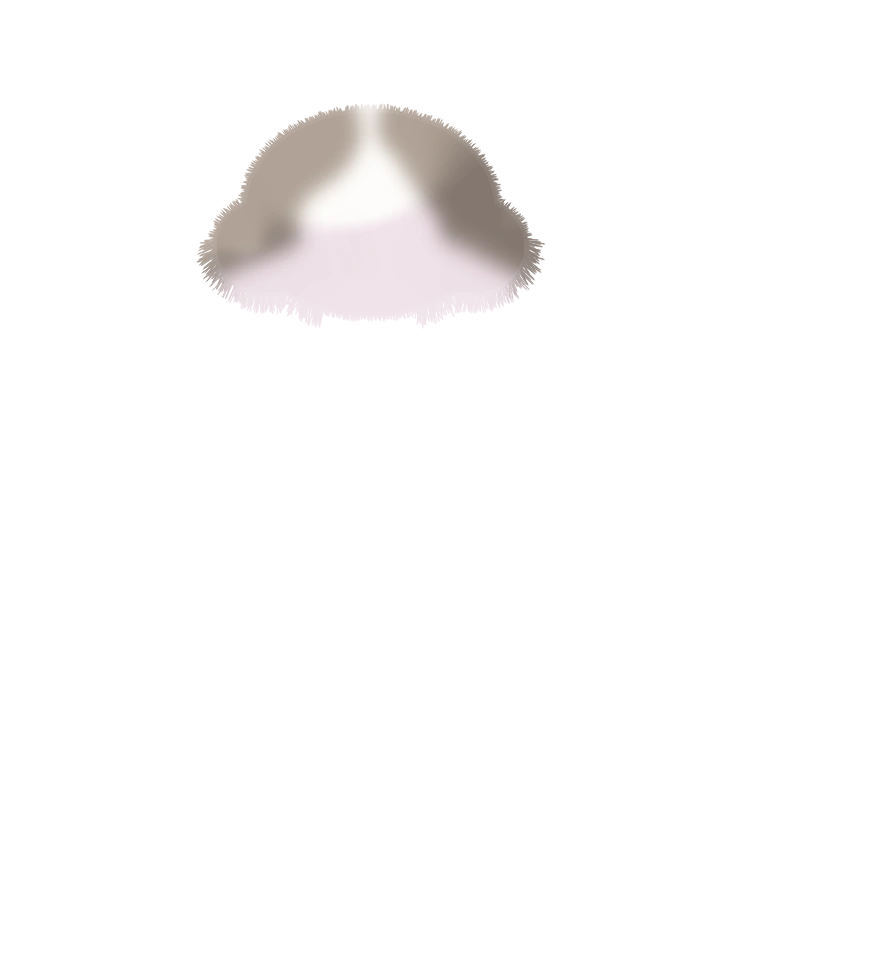
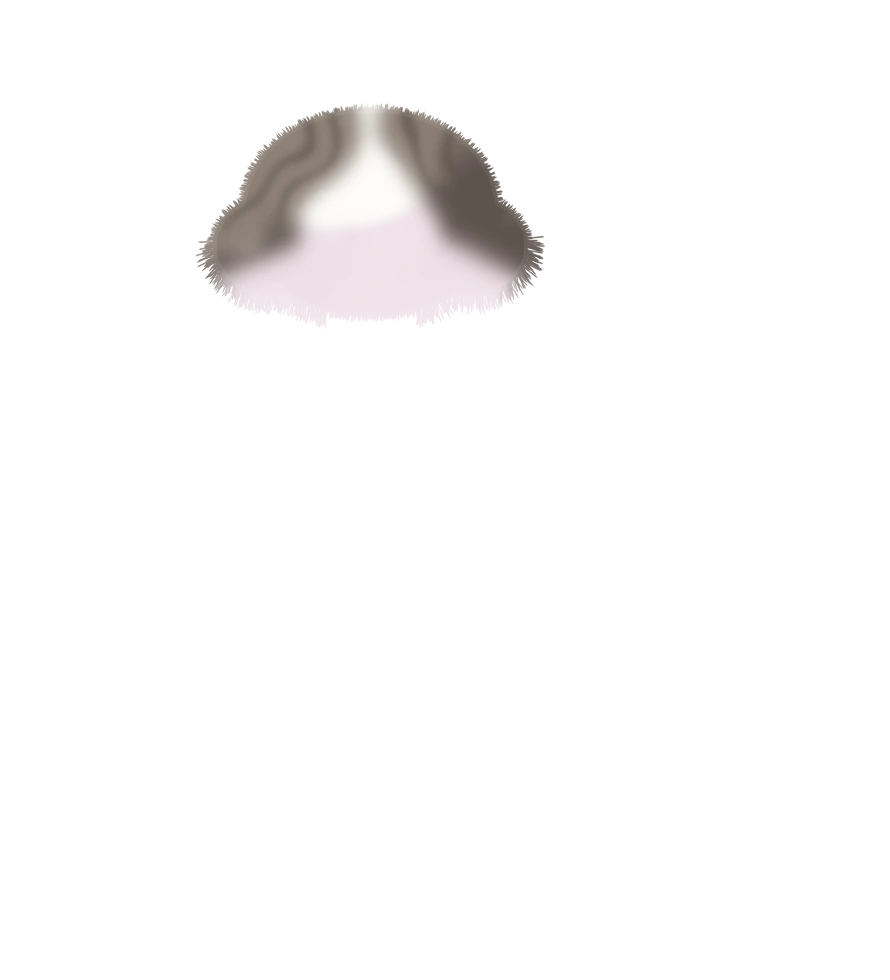
Playground: Ana part-connection pass (eyelids take the head's colours via mesh mapping, clearer legs, darker warm grey with forehead streaks)
Claude-Session: https://claude.ai/code/session_01W4x6f7KtFbhsBZfqVxHVQA

Changed region(s): [[0.2124, 0.0918, 0.6067, 0.3061]]

diff --git a/william/ana/make_ana.py b/william/ana/make_ana.py
@@ -13,7 +13,7 @@ W, H = 890, 980; CX = 370
 rng = np.random.RandomState(5)
 yy, xx = np.mgrid[0:H, 0:W].astype(np.float32)
 WHITE = np.array([251, 253, 255], np.float32); SHADOW = np.array([234, 226, 240], np.float32)      # BGR：白と、ピンクがかった影
-GREY = np.array([150, 162, 176], np.float32); DARK = np.array([112, 120, 132], np.float32)   # BGR：写真のアナちゃんは あたたかい灰色（グレージュ）
+GREY = np.array([120, 130, 142], np.float32); DARK = np.array([78, 84, 94], np.float32)   # BGR：写真のアナちゃんは あたたかい灰色（グレージュ）
 LIGHT = np.array([-0.3, -0.6, 0.74]); LIGHT /= np.linalg.norm(LIGHT)
 def ss(a, b, v): t = np.clip((v - a) / (b - a), 0, 1); return t * t * (3 - 2 * t)
 def lerp(a, b, k): return a * (1 - k[..., None]) + b * k[..., None]
@@ -62,18 +62,18 @@ def clumps(img, mask, n, ybox, size=(34, 64), strength=0.5):
 
 # ---------- 体（Tororo と同じく たて長。胸の毛が ゆたかで、前足は 毛の下から出る） ----------
 bm, bl = solid([(CX, 385, 150, 115, 150), (296, 340, 74, 62, 70), (444, 340, 74, 62, 70), (CX, 540, 180, 175, 180), (CX, 700, 208, 178, 180)])   # 首まわりの ゆたかな毛で、ほおと体を なだらかに つなぐ
-legs_m, legs_l = solid([(326, 770, 44, 110, 60), (414, 770, 44, 110, 60), (322, 866, 54, 27, 50), (418, 866, 54, 27, 50)], blur=8)
+legs_m, legs_l = solid([(322, 760, 50, 125, 60), (418, 760, 50, 125, 60), (318, 862, 62, 30, 50), (422, 862, 62, 30, 50)], blur=8)
 flank = ss(145, 195, np.abs(xx - CX) + n1 * 30 + (700 - yy) * 0.05) * ss(470, 560, yy)                 # 体のわきは灰色
-shadow = 0.45 * ss(390, 310, yy) * ss(140, 40, np.abs(xx - CX)) + 0.25 * ss(820, 890, yy)             # あごの下・体の下の影
+shadow = 0.45 * ss(390, 310, yy) * ss(140, 40, np.abs(xx - CX)) + 0.25 * ss(820, 890, yy) + 0.3 * ss(690, 780, yy) * ss(60, 120, np.abs(xx - CX)) * ss(190, 130, np.abs(xx - CX))             # あごの下・体の下の影
 body = soft(bm, bl, cv2.GaussianBlur(flank, (0, 0), 12), np.where(yy < 600, 22.0, 16.0).astype(np.float32), shadow)
 clumps(body, bm, 34, (360, 680), strength=0.38)
-legs = soft(legs_m, legs_l * 0.75 + 0.25, np.zeros((H, W), np.float32), 4.0, 0.5 * ss(790, 700, yy) + 0.5 * ss(22, 0, np.abs(xx - CX)) * (yy < 850))
+legs = soft(legs_m, legs_l * 0.6 + 0.4, np.zeros((H, W), np.float32), 5.0, 0.55 * ss(760, 660, yy) + 0.6 * ss(16, 0, np.abs(xx - CX)) * (yy < 846) + 0.3 * ss(60, 100, np.abs(xx - CX)) * (yy < 840))   # 胸の毛の影・足のあいだの影・足の外がわの影
 lb = np.ascontiguousarray(legs[..., :3])
-for cx in (322, 418):
-    for dx in (-16, 0, 16): cv2.line(lb, (int((cx + dx) * 8), 866 * 8), (int((cx + dx * 1.1) * 8), 888 * 8), (214, 204, 222), 2, cv2.LINE_AA, 3)   # 指のあいだ（うすい線）
+for cx in (318, 422):
+    for dx in (-19, 0, 19): cv2.line(lb, (int((cx + dx) * 8), 864 * 8), (int((cx + dx * 1.1) * 8), 889 * 8), (206, 196, 216), 2, cv2.LINE_AA, 3)   # 指のあいだ（うすい線）
 legs[..., :3] = lb
 # 胸の毛が 足の上に かぶさる：足は 体の毛より下の部分だけ 見える
-cover = cv2.GaussianBlur(((bm) & (yy < 700 + 22 * np.sin(xx * 0.09))).astype(np.float32), (0, 0), 3)
+cover = cv2.GaussianBlur(((bm) & (yy < 668 + 20 * np.sin(xx * 0.09))).astype(np.float32), (0, 0), 3)
 k = legs[..., 3:].astype(np.float32) / 255 * (1 - cover[..., None])
 out = body.astype(np.float32); out[..., :3] = out[..., :3] * (1 - k) + legs[..., :3] * k; out[..., 3] = np.maximum(out[..., 3], k[..., 0] * 255); body = out.astype(np.uint8)
 
@@ -83,6 +83,8 @@ hm, hl = solid([(HX, HY, 128, 100, 120), (268, 246, 56, 50, 55), (472, 246, 56, 
 du = np.abs(xx - HX) + (n1 - 0.5) * 16
 blaze = 11 + 62 * ss(125, 222, yy) ** 1.4                                                            # ひたいの白い筋：上は細く、目の高さで 目の内がわまで
 g = (du > blaze).astype(np.float32) * ss(256, 224, yy - (du - 74) * 0.5)                             # 目より下は白、外がわほど 灰色が下まで
+streak = np.clip(np.sin((du - blaze) * 0.21 + n1 * 3) * 1.6 - 0.5, 0, 1) * ss(250, 200, yy) * (du > blaze + 4) * (du < blaze + 70)   # ひたいの こい すじ（しま）
+hl = hl * (1 - 0.75 * cv2.GaussianBlur(streak.astype(np.float32), (0, 0), 2.5))
 head = soft(hm, hl, cv2.GaussianBlur(g, (0, 0), 9), np.where((yy > 238) & (np.abs(xx - HX) > 46), 18.0, 6.0).astype(np.float32), 0.22 * ss(272, 308, yy))
 clumps(head, hm, 8, (254, 300), size=(20, 34), strength=0.35)
 

diff --git a/william/ana/make_face_tex.py b/william/ana/make_face_tex.py
@@ -14,15 +14,26 @@ def drop_components(x0, y0, x1, y1, pred):
         if pred(st[i]): reg[lab == i] = 0
 drop_components(410, 1085, 1400, 1390, lambda s: s[cv2.CC_STAT_AREA] > 20000)                 # しっぽ（大きい かたまり）
 drop_components(1235, 1415, 2040, 2040, lambda s: s[cv2.CC_STAT_TOP] < 560 - 0 and s[cv2.CC_STAT_AREA] > 3000 and s[cv2.CC_STAT_TOP] + 1415 < 1960)   # 耳
-# 目のまわりの皮（まぶた）：William では 右目に灰色のぶち。アナちゃんは 目の上と外がわが 灰色（グレージュ）、内がわと下は 白 → 顔の模様と つながる色にする
-WHITE = np.array([249, 251, 253], np.float32); GREIGE = np.array([156, 166, 180], np.float32)   # BGR
-for (x0, y0, x1, y1, outer_left) in [(500, 1535, 710, 1812, True), (728, 1535, 945, 1812, False)]:
-    reg = t[y0:y1, x0:x1]; h, w = reg.shape[:2]; yy, xx = np.mgrid[0:h, 0:w].astype(np.float32)
-    u = (1 - xx / w) if outer_left else (xx / w)                       # 0=鼻がわ、1=外がわ
-    k = np.clip((u - 0.34) / 0.3, 0, 1) * np.clip((0.62 - yy / h) / 0.2, 0, 1)   # 外がわ かつ 上がわ ほど 灰色
-    k = cv2.GaussianBlur(k, (0, 0), 6)[..., None]
-    m = reg[..., 3] > 0; col = WHITE * (1 - k) + GREIGE * k; reg[m, :3] = col[m].astype(np.uint8)
-    reg[..., 3] = np.minimum(reg[..., 3], cv2.GaussianBlur(reg[..., 3], (0, 0), 2.5))   # ふちを ぼかして 顔になじませる
+# 目のまわりの皮（まぶた。D_EYE_02〜05）：その場所の アナちゃんの顔の色を そのまま写す（顔の土台と まぶたが 同じ色で つながる）
+#   face_rims.json = まぶたの網目（テクスチャ上の位置 uv と、モデル上の位置 pos）。モデル上の位置 → アナちゃんの絵の座標 → 頭の絵の色
+import json
+from PIL import Image
+FS, FX, FY = 850 / 1820 * 1.06, 0, 6                                   # tpl.html の ANA_FACE と同じ
+rims = json.load(open(os.path.join(ROOT, 'william', 'ana', 'face_rims.json'))); cv_ = rims['canvas']
+head = np.array(Image.open(os.path.join(ROOT, 'william', 'assets', 'ana_head.webp')).convert('RGBA'))[..., [2, 1, 0, 3]].astype(np.float32)
+hrgb = cv2.GaussianBlur(head[..., :3], (0, 0), 2)
+for part in rims['parts']:
+    uv = np.array(part['uv'], np.float32).reshape(-1, 2); pos = np.array(part['pos'], np.float32).reshape(-1, 2)
+    tx = np.stack([uv[:, 0] * 2048, (1 - uv[:, 1]) * 2048], 1)                                             # テクスチャ上
+    mx = np.stack([pos[:, 0] * cv_['ppu'] + cv_['ox'], -pos[:, 1] * cv_['ppu'] + cv_['oy']], 1)            # モデル上（画素）
+    art = np.stack([370 + FX + (mx[:, 0] - 1000) * FS, 890 + FY + (mx[:, 1] - 2201) * FS], 1).astype(np.float32)   # アナちゃんの絵の座標
+    for k in range(0, len(part['idx']), 3):
+        ii = part['idx'][k:k + 3]; T = cv2.getAffineTransform(tx[ii], art[ii])                             # テクスチャ → 絵
+        x0, y0 = np.floor(tx[ii].min(axis=0)).astype(int) - 1; x1, y1 = np.ceil(tx[ii].max(axis=0)).astype(int) + 2
+        m = np.zeros((y1 - y0, x1 - x0), np.uint8); cv2.fillConvexPoly(m, np.round(tx[ii] - [x0, y0]).astype(np.int32), 255); m = cv2.dilate(m, np.ones((3, 3), np.uint8))
+        gy, gx = np.mgrid[y0:y1, x0:x1].astype(np.float32); ax = T[0, 0] * gx + T[0, 1] * gy + T[0, 2]; ay = T[1, 0] * gx + T[1, 1] * gy + T[1, 2]
+        smp = cv2.remap(hrgb, ax.astype(np.float32), ay.astype(np.float32), cv2.INTER_LINEAR, borderMode=cv2.BORDER_REPLICATE)
+        reg = t[y0:y1, x0:x1]; sel = (m > 0) & (reg[..., 3] > 0); reg[sel, :3] = smp[sel].clip(0, 255).astype(np.uint8)
 os.makedirs(os.path.join(ROOT, 'public', 'w', 'ana.2048'), exist_ok=True)
 cv2.imwrite(os.path.join(ROOT, 'public', 'w', 'ana.2048', 'texture_00.png'), t, [cv2.IMWRITE_PNG_COMPRESSION, 9])
 print('ok')

diff --git a/william/ana/README.md b/william/ana/README.md
@@ -19,3 +19,17 @@
 本式の Live2D（moc3）にする場合の工程（See-through で部品分け → PSD → Cubism Editor）は、GMO の記事を参照：
 https://recruit.group.gmo/engineer/jisedai/blog/see-through-x-kaggle-x-claude-code/
 
+
+## 部品のつながりの点検（ポーズを変えて確かめる）
+
+正面／左上を見る／右下を見る／食べる／見上げる の 5 つの姿勢で描いて、つなぎ目を見る。
+
+| つなぎ目 | 決まり |
+|---|---|
+| 顔の土台 ↔ まぶた | まぶた（D_EYE_02〜05）の色は、その場所の頭の絵の色を写す（`make_face_tex.py`、網目は `face_rims.json`）。頭の絵を変えたら 作り直す |
+| 頭 ↔ 体 | 首まわりの毛で ほおと体を なだらかに つなぐ。食べるときも 頭は 首から離さない（小さく うなずく） |
+| 耳 ↔ 頭 | 耳の外がわのつけ根は 頭の中に かくす |
+| 体 ↔ 前足・足先 | 胸の毛が 足の上に かぶさる。足のあいだ・足の外がわ・胸の毛の下に 影を入れて、足が 体の前にあると分かるようにする |
+| しっぽ ↔ 体 | しっぽは 体のうしろ。つけ根は 動かさず、先ほど大きく しなる |
+
+毛の色は、もらった写真（20 枚以上）の多くに合わせて こい茶色がかった灰色。ひたいには こい すじ。
